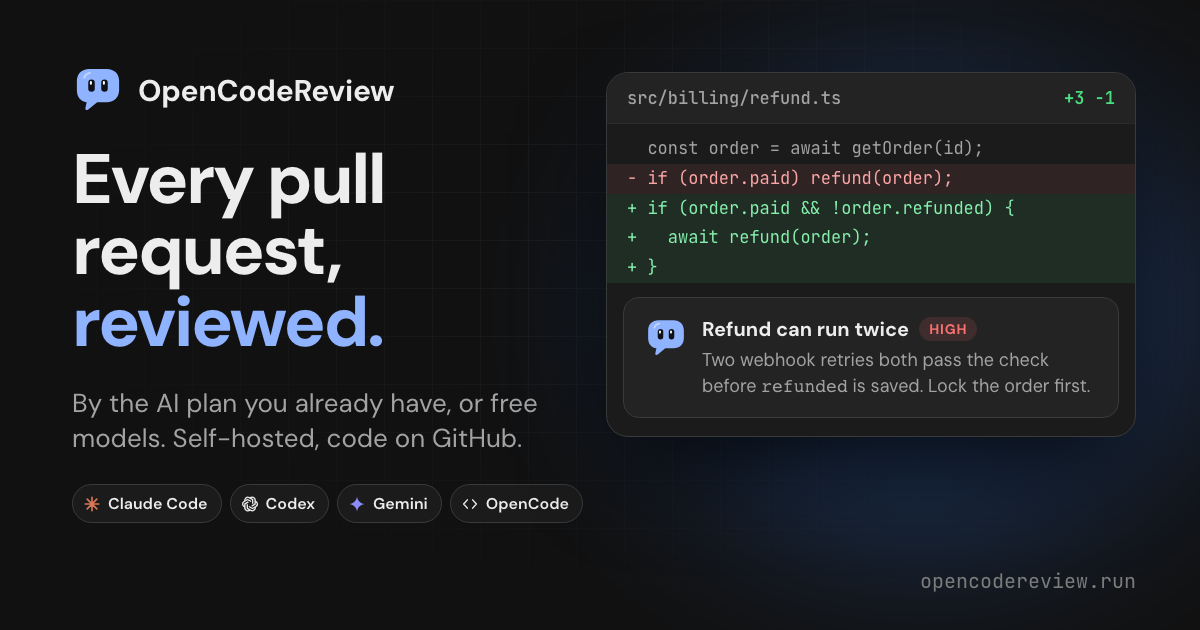
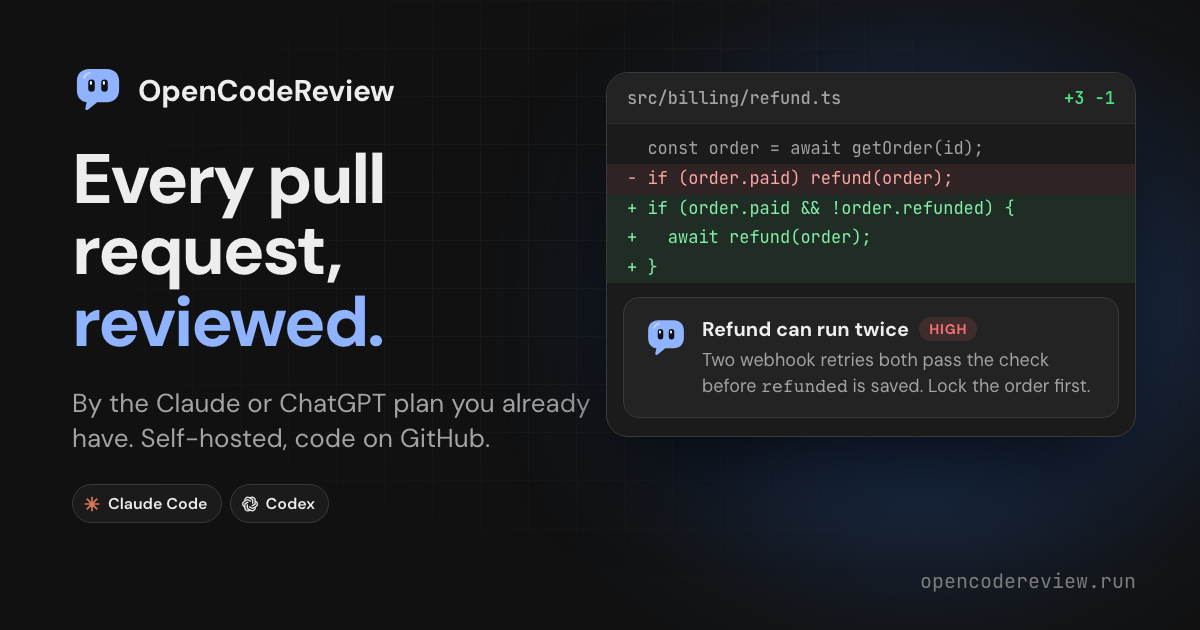
docs: describe Claude and ChatGPT as the only providers
Align the README, docs, landing page, structured data, llms.txt and
share image with the two providers the app runs, and drop the free
models and API key claims.

Changed region(s): [[0.0617, 0.6032, 0.4933, 0.7238], [0.2775, 0.7841, 0.4933, 0.8143]]

diff --git a/site/index.html b/site/index.html
@@ -4,7 +4,7 @@
   <meta charset="utf-8">
   <meta name="viewport" content="width=device-width, initial-scale=1, viewport-fit=cover">
   <title>OpenCodeReview — a code reviewer for people who ship alone</title>
-  <meta name="description" content="Self-hosted AI code review for indie hackers and solo SaaS builders. Every pull request gets reviewed by Claude Code, Codex or Gemini with the account you already have, or by OpenCode for free.">
+  <meta name="description" content="Self-hosted AI code review for indie hackers and solo SaaS builders. Every pull request gets reviewed by Claude Code or Codex with the Claude or ChatGPT account you already have.">
   <link rel="canonical" href="https://opencodereview.run/">
   <meta name="robots" content="index, follow, max-image-preview:large, max-snippet:-1">
   <meta name="theme-color" content="#111111">
@@ -13,16 +13,16 @@
   <meta property="og:locale" content="en_US">
   <meta property="og:url" content="https://opencodereview.run/">
   <meta property="og:title" content="OpenCodeReview — a code reviewer for people who ship alone">
-  <meta property="og:description" content="Every pull request reviewed by the AI account you already have, or by free models. Self-hosted, with the code on GitHub.">
-  <meta property="og:image" content="https://opencodereview.run/og.png?v=2">
+  <meta property="og:description" content="Every pull request reviewed by the Claude or ChatGPT account you already have. Self-hosted, with the code on GitHub.">
+  <meta property="og:image" content="https://opencodereview.run/og.png?v=3">
   <meta property="og:image:type" content="image/png">
   <meta property="og:image:width" content="1200">
   <meta property="og:image:height" content="630">
   <meta property="og:image:alt" content="OpenCodeReview: every pull request, reviewed. A diff with a high-severity review comment from the OpenCodeReview mascot.">
   <meta name="twitter:card" content="summary_large_image">
   <meta name="twitter:title" content="OpenCodeReview — a code reviewer for people who ship alone">
-  <meta name="twitter:description" content="Every pull request reviewed by the AI account you already have, or by free models. Self-hosted, with the code on GitHub.">
-  <meta name="twitter:image" content="https://opencodereview.run/og.png?v=2">
+  <meta name="twitter:description" content="Every pull request reviewed by the Claude or ChatGPT account you already have. Self-hosted, with the code on GitHub.">
+  <meta name="twitter:image" content="https://opencodereview.run/og.png?v=3">
   <meta name="twitter:image:alt" content="OpenCodeReview: every pull request, reviewed. A diff with a high-severity review comment from the OpenCodeReview mascot.">
   <link rel="icon" href="favicon.ico" sizes="32x32">
   <link rel="icon" href="favicon.svg" type="image/svg+xml">
@@ -59,7 +59,7 @@
         "@id": "https://opencodereview.run/#software",
         "name": "OpenCodeReview",
         "url": "https://opencodereview.run/",
-        "description": "Self-hosted, source-available AI code review for GitHub pull requests. Reviews run on the Claude Code, Codex or Gemini CLI with the account you already have, or on OpenCode's free models.",
+        "description": "Self-hosted, source-available AI code review for GitHub pull requests. Reviews run on the Claude Code or Codex CLI with the Claude or ChatGPT account you already have.",
         "applicationCategory": "DeveloperApplication",
         "operatingSystem": "Linux, macOS, Windows (Docker)",
         "image": "https://opencodereview.run/og.png",
@@ -73,8 +73,8 @@
           "priceCurrency": "USD"
         },
         "featureList": [
-          "Reviews every GitHub pull request with Claude Code, Codex, Gemini CLI or OpenCode",
-          "Uses the Claude, ChatGPT or Google account you already have, or free models",
+          "Reviews every GitHub pull request with Claude Code or Codex",
+          "Uses the Claude or ChatGPT account you already have",
           "Fails over between several AI accounts when one hits its usage limit",
           "Indexes each repository for callers, dependencies, tests and convention files",
           "Checks every finding against the changed code before publishing it",
@@ -109,7 +109,7 @@
             "name": "Is OpenCodeReview really free?",
             "acceptedAnswer": {
               "@type": "Answer",
-              "text": "For individuals and companies under 100 people and $1M in yearly revenue, yes, including commercial use. Larger companies need a commercial license. Reviews run on your own Claude, ChatGPT or Gemini account, or on OpenCode's free models, so the only cost is what you already pay your AI provider."
+              "text": "For individuals and companies under 100 people and $1M in yearly revenue, yes, including commercial use. Larger companies need a commercial license. Reviews run on your own Claude or ChatGPT account, so the only cost is what you already pay your AI provider."
             }
           },
           {
@@ -117,7 +117,7 @@
             "name": "Which plans work?",
             "acceptedAnswer": {
               "@type": "Answer",
-              "text": "Claude Pro, Max or Team through Claude Code, ChatGPT plans that include Codex, a Google account through the Gemini CLI, and OpenCode's free models or an OpenCode Go key. Local models are not supported. You can connect several accounts of each kind."
+              "text": "Claude Pro, Max or Team through Claude Code, and ChatGPT plans that include Codex. Local models are not supported. You can connect several accounts of each kind."
             }
           },
           {
@@ -125,7 +125,7 @@
             "name": "What happens when my plan hits its limit?",
             "acceptedAnswer": {
               "@type": "Answer",
-              "text": "The review continues on your next account in order. The limited account rests and is used again after its window resets. Claude and ChatGPT accounts show how much usage they have left; API keys are billed by their provider."
+              "text": "The review continues on your next account in order. The limited account rests and is used again after its window resets. Each account shows how much usage it has left."
             }
           },
           {
@@ -133,7 +133,7 @@
             "name": "Where does my code go?",
             "acceptedAnswer": {
               "@type": "Answer",
-              "text": "It stays on the machine that runs OpenCodeReview. Reviews call your AI provider with your own sign-in or key, the same way its CLI does when you use it yourself."
+              "text": "It stays on the machine that runs OpenCodeReview. Reviews call your AI provider with your own sign-in, the same way its CLI does when you use it yourself."
             }
           },
           {
@@ -157,7 +157,7 @@
             "name": "What do I need to run it?",
             "acceptedAnswer": {
               "@type": "Answer",
-              "text": "Docker, a GitHub account with access to your repositories, and a Claude, ChatGPT or Gemini account. Without one, OpenCode's free models work. The Claude Code, Codex, Gemini and OpenCode CLIs ship inside the container."
+              "text": "Docker, a GitHub account with access to your repositories, and a Claude or ChatGPT account. The Claude Code and Codex CLIs ship inside the container."
             }
           },
           {
@@ -193,8 +193,6 @@
       <rect x="72" y="34" width="22" height="46" rx="11" fill="#0f1115" /><rect x="77" y="40" width="7" height="13" rx="3.5" fill="#fff" />
     </symbol>
     <symbol id="codex" viewBox="0 0 24 24"><g fill="none" stroke="currentColor" stroke-width="1.8" stroke-linejoin="round"><path d="M12 4.2a4 4 0 0 1 6.9 2.6l-.1 5.4-4.6 2.7" /><path d="M12 4.2a4 4 0 0 1 6.9 2.6l-.1 5.4-4.6 2.7" transform="rotate(60 12 12)" /><path d="M12 4.2a4 4 0 0 1 6.9 2.6l-.1 5.4-4.6 2.7" transform="rotate(120 12 12)" /><path d="M12 4.2a4 4 0 0 1 6.9 2.6l-.1 5.4-4.6 2.7" transform="rotate(180 12 12)" /><path d="M12 4.2a4 4 0 0 1 6.9 2.6l-.1 5.4-4.6 2.7" transform="rotate(240 12 12)" /><path d="M12 4.2a4 4 0 0 1 6.9 2.6l-.1 5.4-4.6 2.7" transform="rotate(300 12 12)" /></g></symbol>
-    <symbol id="gemini" viewBox="0 0 24 24"><path fill="currentColor" d="M12 2c.6 5.4 4.6 9.4 10 10-5.4.6-9.4 4.6-10 10-.6-5.4-4.6-9.4-10-10 5.4-.6 9.4-4.6 10-10Z" /></symbol>
-    <symbol id="opencode" viewBox="0 0 24 24"><path d="M8.5 6.5 3.5 12l5 5.5M15.5 6.5l5 5.5-5 5.5" fill="none" stroke="currentColor" stroke-width="1.9" stroke-linecap="round" stroke-linejoin="round" /></symbol>
     <symbol id="claude" viewBox="0 0 24 24"><g stroke="currentColor" stroke-width="2.2" stroke-linecap="round"><path d="M12 3v18M3 12h18M5.6 5.6l12.8 12.8M18.4 5.6 5.6 18.4" /></g></symbol>
     <symbol id="github" viewBox="0 0 24 24"><path fill="currentColor" d="M12 .5a11.5 11.5 0 0 0-3.64 22.41c.58.1.79-.25.79-.56v-2c-3.2.7-3.88-1.37-3.88-1.37-.52-1.33-1.28-1.69-1.28-1.69-1.05-.71.08-.7.08-.7 1.16.08 1.77 1.19 1.77 1.19 1.03 1.77 2.7 1.26 3.36.96.1-.75.4-1.26.73-1.55-2.56-.29-5.25-1.28-5.25-5.69 0-1.26.45-2.29 1.19-3.1-.12-.29-.52-1.46.11-3.05 0 0 .97-.31 3.17 1.18a11 11 0 0 1 5.77 0c2.2-1.49 3.17-1.18 3.17-1.18.63 1.59.23 2.76.11 3.05.74.81 1.19 1.84 1.19 3.1 0 4.42-2.7 5.4-5.27 5.68.41.36.78 1.06.78 2.14v3.17c0 .31.21.67.8.56A11.5 11.5 0 0 0 12 .5Z" /></symbol>
     <symbol id="folder" viewBox="0 0 24 24"><path d="M3 6.5A1.5 1.5 0 0 1 4.5 5h4l2 2h9A1.5 1.5 0 0 1 21 8.5v9a1.5 1.5 0 0 1-1.5 1.5h-15A1.5 1.5 0 0 1 3 17.5v-11Z" fill="none" stroke="currentColor" stroke-width="1.6" stroke-linejoin="round" /></symbol>
@@ -219,7 +217,7 @@
       <div class="wrap">
         <p class="eyebrow stagger-1">For indie hackers and solo SaaS builders</p>
         <h1 class="headline">Nobody reviews your code.<span>Now something does.</span></h1>
-        <p class="lede">Every pull request reviewed by the AI account you already have, or by free models.</p>
+        <p class="lede">Every pull request reviewed by the Claude or ChatGPT account you already have.</p>
         <div class="ctas"><a class="btn btn-light btn-lg" href="https://github.com/BridgLabs/opencodereview">Run it free<svg viewBox="0 0 24 24" fill="none" stroke="currentColor" stroke-width="2" stroke-linecap="round" stroke-linejoin="round"><path d="M5 12h14M13 6l6 6-6 6" /></svg></a><span class="install"><code>git clone https://github.com/BridgLabs/opencodereview &amp;&amp; cd opencodereview &amp;&amp; docker compose up --build</code><button class="copy" type="button" data-copy="git clone https://github.com/BridgLabs/opencodereview &amp;&amp; cd opencodereview &amp;&amp; docker compose up --build" aria-label="Copy install command"><svg viewBox="0 0 24 24" fill="none" stroke="currentColor" stroke-width="2" stroke-linecap="round" stroke-linejoin="round"><rect x="9" y="9" width="12" height="12" rx="2" /><path d="M5 15V5a2 2 0 0 1 2-2h10" /></svg></button></span></div>
         <p class="trigger">5 minutes with Docker · No account, no card · Free for individuals and small companies</p>
       </div>
@@ -242,8 +240,6 @@
       <ul class="works-list">
         <li><svg class="provider-mark" style="color:var(--claude)"><use href="#claude" /></svg><span>Claude Code<small>Claude plan</small></span></li>
         <li><svg class="provider-mark"><use href="#codex" /></svg><span>Codex<small>ChatGPT plan</small></span></li>
-        <li><svg class="provider-mark" style="color:var(--gemini)"><use href="#gemini" /></svg><span>Gemini<small>Google account</small></span></li>
-        <li><svg class="provider-mark"><use href="#opencode" /></svg><span>OpenCode<small>Free or Go</small></span></li>
       </ul>
     </section>
 
@@ -277,7 +273,7 @@
         <h2 class="h2">It's for you if…</h2>
         <ol class="stagger">
           <li><span>You <strong>build a SaaS, an app or a side project alone</strong>, or with one cofounder, and there is no one to review your code.</span></li>
-          <li><span>You <strong>already pay for Claude, ChatGPT or Gemini</strong>, or pay for nothing yet, and don't want a second AI bill just for reviews.</span></li>
+          <li><span>You <strong>already pay for Claude or ChatGPT</strong> and don't want a second AI bill just for reviews.</span></li>
           <li><span>You've <strong>shipped a bug a second pair of eyes would have caught</strong>, and you'd rather hear it from a bot than from a customer.</span></li>
         </ol>
         <div class="ctas left"><a class="btn btn-light btn-lg" href="https://github.com/BridgLabs/opencodereview">Run it free<svg viewBox="0 0 24 24" fill="none" stroke="currentColor" stroke-width="2" stroke-linecap="round" stroke-linejoin="round"><path d="M5 12h14M13 6l6 6-6 6" /></svg></a></div>
@@ -351,9 +347,9 @@
           <p>Sign in with GitHub and pick the repositories. They're cloned and indexed in the background.</p>
         </div>
         <div class="reveal">
-          <div class="how-art"><div class="mini"><div class="label">Your AI plan</div><div class="row on"><svg class="provider-mark" style="color:var(--claude)"><use href="#claude" /></svg>Claude<span class="ok">✓</span></div><div class="row"><svg class="provider-mark"><use href="#codex" /></svg>ChatGPT</div><div class="row"><svg class="provider-mark" style="color:var(--gemini)"><use href="#gemini" /></svg>Gemini</div></div></div>
+          <div class="how-art"><div class="mini"><div class="label">Your AI plan</div><div class="row on"><svg class="provider-mark" style="color:var(--claude)"><use href="#claude" /></svg>Claude<span class="ok">✓</span></div><div class="row"><svg class="provider-mark"><use href="#codex" /></svg>ChatGPT</div></div></div>
           <h3><span>3.</span> Bring your own brain</h3>
-          <p>Sign in to Claude, ChatGPT or Gemini in the browser, or use OpenCode's free models. Every CLI ships inside the container.</p>
+          <p>Sign in to Claude or ChatGPT in the browser. Both CLIs ship inside the container.</p>
         </div>
         <div class="reveal">
           <div class="how-art"><svg class="hop" style="width:84px;height:84px;color:var(--mascot)"><use href="#bubble" /></svg><span class="tag ok" style="position:absolute;top:34px;right:26px">#58 reviewed</span></div>
@@ -386,13 +382,11 @@
       <div class="grid">
         <article class="card reveal">
           <h3>Your AI, your call</h3>
-          <p>Review with Claude Code, Codex, Gemini or OpenCode, whichever you have. Pick which account the next reviews use.</p>
+          <p>Review with Claude Code or Codex, whichever you have. Pick which account the next reviews use.</p>
           <div class="shot">
             <div class="shot-bar"><span class="dots"><i></i><i></i><i></i></span>Reviews run on</div>
             <div class="opt on"><svg class="provider-mark" style="color:var(--claude)"><use href="#claude" /></svg>Claude Max<span class="sub">Anthropic</span><span class="check">✓</span></div>
             <div class="opt"><svg class="provider-mark"><use href="#codex" /></svg>ChatGPT Plus<span class="sub">OpenAI</span></div>
-            <div class="opt"><svg class="provider-mark" style="color:var(--gemini)"><use href="#gemini" /></svg>Gemini<span class="sub">Google</span></div>
-            <div class="opt"><svg class="provider-mark"><use href="#opencode" /></svg>OpenCode Go<span class="sub">OpenCode</span></div>
           </div>
         </article>
         <article class="card reveal">
@@ -442,7 +436,7 @@
           <div class="local">
             <div class="local-head">On this machine<svg viewBox="0 0 24 24" fill="none" stroke="currentColor" stroke-width="1.8"><rect x="5" y="11" width="14" height="9" rx="2" /><path d="M8 11V8a4 4 0 0 1 8 0v3" /></svg></div>
             <div class="local-row"><svg><use href="#folder" /></svg>Repositories and index</div>
-            <div class="local-row"><svg><use href="#folder" /></svg>AI sign-ins and API keys</div>
+            <div class="local-row"><svg><use href="#folder" /></svg>AI sign-ins</div>
             <div class="local-row"><svg><use href="#folder" /></svg>Review history</div>
           </div>
         </article>
@@ -486,7 +480,7 @@
           <tbody>
             <tr><th scope="row">Price</th><td class="us"><span class="cell"><span class="mark yes" aria-label="Yes">✓</span>Free for individuals and small companies, on your AI plan</span></td><td><span class="cell"><span class="mark no" aria-label="No">✕</span>Per developer, monthly</span></td><td><span class="cell"><span class="mark no" aria-label="No">✕</span>Per developer, monthly</span></td></tr>
             <tr><th scope="row">Where your code runs</th><td class="us"><span class="cell"><span class="mark yes" aria-label="Yes">✓</span>Your machine; only your AI provider sees the diff</span></td><td><span class="cell"><span class="mark no" aria-label="No">✕</span>Their cloud</span></td><td><span class="cell"><span class="mark part" aria-label="Partly">~</span>Their cloud, or self-hosted on enterprise</span></td></tr>
-            <tr><th scope="row">Models</th><td class="us"><span class="cell"><span class="mark yes" aria-label="Yes">✓</span>Claude Code, Codex, Gemini or OpenCode</span></td><td><span class="cell"><span class="mark part" aria-label="Partly">~</span>Vendor's choice</span></td><td><span class="cell"><span class="mark part" aria-label="Partly">~</span>Vendor's choice</span></td></tr>
+            <tr><th scope="row">Models</th><td class="us"><span class="cell"><span class="mark yes" aria-label="Yes">✓</span>Claude Code or Codex</span></td><td><span class="cell"><span class="mark part" aria-label="Partly">~</span>Vendor's choice</span></td><td><span class="cell"><span class="mark part" aria-label="Partly">~</span>Vendor's choice</span></td></tr>
             <tr><th scope="row">Usage limits</th><td class="us"><span class="cell"><span class="mark yes" aria-label="Yes">✓</span>Fails over across your accounts</span></td><td><span class="cell"><span class="mark part" aria-label="Partly">~</span>Your plan's limits</span></td><td><span class="cell"><span class="mark part" aria-label="Partly">~</span>Your plan's limits</span></td></tr>
             <tr><th scope="row">Whole-repo context</th><td class="us"><span class="cell"><span class="mark yes" aria-label="Yes">✓</span>Local index</span></td><td><span class="cell"><span class="mark yes" aria-label="Yes">✓</span>Yes</span></td><td><span class="cell"><span class="mark yes" aria-label="Yes">✓</span>Yes</span></td></tr>
             <tr><th scope="row">Source code available</th><td class="us"><span class="cell"><span class="mark yes" aria-label="Yes">✓</span>Yes</span></td><td><span class="cell"><span class="mark no" aria-label="No">✕</span>No</span></td><td><span class="cell"><span class="mark no" aria-label="No">✕</span>No</span></td></tr>
@@ -535,13 +529,13 @@
         <div>
           <details><summary>I work alone. Isn't code review for teams?</summary><p>That is exactly why you need it. On a team, someone else reads your diff before it ships. Alone, nobody does. OpenCodeReview is that someone, for every pull request, in a few minutes.</p></details>
           <details><summary>I push straight to main. Does it still work?</summary><p>It reviews pull requests. Open a branch and a pull request for each change, even if you merge it yourself ten minutes later. The review lands before you merge.</p></details>
-          <details><summary>Is OpenCodeReview really free?</summary><p>For individuals and companies under 100 people and $1M in yearly revenue, yes, including commercial use. Larger companies need a commercial license. Reviews run on your own Claude, ChatGPT or Gemini account, or on OpenCode's free models, so the only cost is what you already pay your AI provider.</p></details>
-          <details><summary>Which plans work?</summary><p>Claude Pro, Max or Team through Claude Code, ChatGPT plans that include Codex, a Google account through the Gemini CLI, and OpenCode's free models or an OpenCode Go key. Local models are not supported. You can connect several accounts of each kind.</p></details>
-          <details><summary>What happens when my plan hits its limit?</summary><p>The review continues on your next account in order. The limited account rests and is used again after its window resets. Claude and ChatGPT accounts show how much usage they have left; API keys are billed by their provider.</p></details>
-          <details><summary>Where does my code go?</summary><p>It stays on the machine that runs OpenCodeReview. Reviews call your AI provider with your own sign-in or key, the same way its CLI does when you use it yourself.</p></details>
+          <details><summary>Is OpenCodeReview really free?</summary><p>For individuals and companies under 100 people and $1M in yearly revenue, yes, including commercial use. Larger companies need a commercial license. Reviews run on your own Claude or ChatGPT account, so the only cost is what you already pay your AI provider.</p></details>
+          <details><summary>Which plans work?</summary><p>Claude Pro, Max or Team through Claude Code, and ChatGPT plans that include Codex. Local models are not supported. You can connect several accounts of each kind.</p></details>
+          <details><summary>What happens when my plan hits its limit?</summary><p>The review continues on your next account in order. The limited account rests and is used again after its window resets. Each account shows how much usage it has left.</p></details>
+          <details><summary>Where does my code go?</summary><p>It stays on the machine that runs OpenCodeReview. Reviews call your AI provider with your own sign-in, the same way its CLI does when you use it yourself.</p></details>
           <details><summary>How is it different from CodeRabbit or Greptile?</summary><p>They are hosted services billed per developer. OpenCodeReview runs on your own machine, its code is on GitHub, and it reviews with the AI plan you already pay for.</p></details>
           <details><summary>Does my laptop need to stay on?</summary><p>Reviews run while OpenCodeReview is running. For reviews around the clock, run it on any always-on machine with Docker, such as a small VPS or a home server.</p></details>
-          <details><summary>What do I need to run it?</summary><p>Docker, a GitHub account with access to your repositories, and a Claude, ChatGPT or Gemini account. Without one, OpenCode's free models work. The Claude Code, Codex, Gemini and OpenCode CLIs ship inside the container.</p></details>
+          <details><summary>What do I need to run it?</summary><p>Docker, a GitHub account with access to your repositories, and a Claude or ChatGPT account. The Claude Code and Codex CLIs ship inside the container.</p></details>
           <details><summary>Does it work with GitHub Enterprise?</summary><p>Yes. Set <code>OCR_GH_HOST</code> to your GitHub host before starting it.</p></details>
         </div>
       </div>

diff --git a/scripts/og/og.html b/scripts/og/og.html
@@ -30,12 +30,10 @@
   <div class="copy">
     <div class="brand"><svg><use href="#bubble" /></svg>OpenCodeReview</div>
     <h1 class="title">Every pull request,<span>reviewed.</span></h1>
-    <p class="sub">By the AI plan you already have, or free models. Self-hosted, code on GitHub.</p>
+    <p class="sub">By the Claude or ChatGPT plan you already have. Self-hosted, code on GitHub.</p>
     <div class="chips">
       <span class="chip"><svg style="color:var(--claude)"><use href="#claude" /></svg>Claude Code</span>
       <span class="chip"><svg><use href="#codex" /></svg>Codex</span>
-      <span class="chip"><svg style="color:var(--gemini)"><use href="#gemini" /></svg>Gemini</span>
-      <span class="chip"><svg><use href="#opencode" /></svg>OpenCode</span>
     </div>
   </div>
   <div class="card">

diff --git a/site/styles.css b/site/styles.css
@@ -15,7 +15,6 @@
   --warning: #f5a524;
   --danger: #f87171;
   --claude: #d97757;
-  --gemini: #8b8cf8;
   --radius: 28px;
   color-scheme: dark;
 }

diff --git a/scripts/og/og.css b/scripts/og/og.css
@@ -25,7 +25,6 @@
   --warning: #f5a524;
   --danger: #f87171;
   --claude: #d97757;
-  --gemini: #8b8cf8;
 }
 * {
   box-sizing: border-box;

diff --git a/docs/architecture.md b/docs/architecture.md
@@ -13,7 +13,7 @@ flowchart TB
   API --> GH[gh CLI -> GitHub]
   API -->|private IPC| Runners[review-runner replicas]
   Runners --> Egress[review-egress]
-  Egress --> Provider[Claude, ChatGPT, Gemini and OpenCode hosts]
+  Egress --> Provider[Claude and ChatGPT hosts]
   API -->|sign-in projection| Auth[(review-claude-auth volume)]
   Auth -. read-only .-> Runners
 ```
@@ -22,7 +22,7 @@ flowchart TB
 | --- | ---: | --- |
 | `web` | `1421` | nginx serving the built React app and proxying `/api` to `server`. |
 | `server` | `127.0.0.1:8787` | Rust API (`ocr-server`): GitHub integration, indexing, review orchestration, publication, sign-in flows and background workers. Also publishes `127.0.0.1:1455` for the ChatGPT browser sign-in callback, forwarded only while a sign-in runs. |
-| `review-runner` | none | `ocr-sandbox runner`: executes Claude Code, Codex, the Gemini CLI or OpenCode on a frozen review snapshot, one stage per container at a time. `OCR_REVIEW_RUNNERS` replicas (20 by default) share the `review-ipc` volume, each listening on `/ipc/<hostname>.sock`; the server lists the sockets to find them and removes those whose runner is gone. Settings → PR selection → Reviews at a time (20 by default) limits how many reviews run at once. |
+| `review-runner` | none | `ocr-sandbox runner`: executes Claude Code or Codex on a frozen review snapshot, one stage per container at a time. `OCR_REVIEW_RUNNERS` replicas (20 by default) share the `review-ipc` volume, each listening on `/ipc/<hostname>.sock`; the server lists the sockets to find them and removes those whose runner is gone. Settings → PR selection → Reviews at a time (20 by default) limits how many reviews run at once. |
 | `review-egress` | none | `ocr-sandbox egress`: a CONNECT proxy that admits only the AI provider hosts. Runner networks are internal and reach the internet only through it. |
 
 Volumes: `ocr-data` (database, repository cache, index, review archives, settings and sign-ins), `review-claude-auth` (read-only sign-in projection for runners) and one IPC volume per runner. The runtime uses built images and named volumes only: no source bind mounts, no host credential folders, no Docker socket.
@@ -33,15 +33,13 @@ Volumes: `ocr-data` (database, repository cache, index, review archives, setting
 - The containers are read-only, drop all capabilities except the few the supervisor needs, use `no-new-privileges`, and limit CPU, memory and process count. The AI process runs as an unprivileged UID separate from its supervisor.
 - Claude Code runs as `claude --print` with a fixed model and effort (`claude-opus-5-5`, medium), JSON streaming output, no MCP servers, no session persistence, no slash commands and an explicit tool list (`Read`, `Grep`, `Glob`, `Bash`, `Write`). `Agent`, `Task`, `WebFetch`, `WebSearch` and `mcp__*` are denied, and a `PreToolUse` hook (`ocr-sandbox tool-guard`) checks every tool call. Shell access is limited to bounded reads, searches and listings inside the snapshot.
 - Codex runs as `codex exec` with medium reasoning effort, the CLI's default model, ephemeral sessions and user config, extensions and web search disabled. Codex's own sandbox cannot start inside the hardened runner, so the container is the sandbox.
-- Gemini runs the Gemini CLI headless (`--output-format stream-json`, prompt on stdin) with its default model, a private home with usage statistics, auto-update and checkpointing off, and a policy that denies web search, web fetch, subagents and skills. Like Codex, the container is the sandbox.
-- OpenCode runs `opencode run --pure --format json` with the prompt on stdin, the account's OpenCode Go key, if any, in `OPENCODE_API_KEY`, and the plan's model (`opencode-go/glm-5.3` with a key, `opencode/big-pickle` for the free models) unless the account names another. Model catalogue downloads, auto-update, default plugins, LSP downloads, sharing, project configuration and Claude Code files are off, and the web, subagent, todo, skill and edit tools are disabled. Local models are not offered: the egress proxy refuses private networks.
 - The sign-in reaches the process only through its environment or a private per-stage home directory. Output that contains the account's tokens is rejected, and transcripts are kept outside paths the model can read.
 - The backend and runner images share an executor fingerprint (`ocr-sandbox engine-version`). A mismatched runner fails before any AI call, and there is no fallback that runs the AI inside `server`.
 - Every CLI version is pinned in [`docker/Dockerfile`](../docker/Dockerfile) with per-architecture SHA-256 checksums and auto-update disabled.
 
 ## Accounts and failover
 
-Settings → Accounts holds Claude, ChatGPT, Gemini and OpenCode accounts in one priority order. Each review stage uses the first account that is enabled, signed in and not resting. When a stage hits a usage limit, that account rests until the reset time reported by the provider (or one hour when none is given) and the same stage runs again on the next account, across providers. A rejected sign-in marks the account as needing attention. Settings shows each Claude and ChatGPT account's remaining plan usage, refreshed every five minutes; Gemini does not expose its quota outside a session, so its accounts rest when a review reports the daily quota is used up. OpenCode does not report usage, so its accounts show none.
+Settings → Accounts holds Claude and ChatGPT accounts in one priority order. Each review stage uses the first account that is enabled, signed in and not resting. When a stage hits a usage limit, that account rests until the reset time reported by the provider (or one hour when none is given) and the same stage runs again on the next account, across providers. A rejected sign-in marks the account as needing attention. Settings shows each account's remaining plan usage and the top bar shows it for the account the next review uses, refreshed every five minutes.
 
 ## Backend
 
@@ -51,7 +49,7 @@ Rust crate `opencodereview-server` in [`backend/`](../backend/Cargo.toml) with t
 | --- | --- |
 | HTTP API and jobs | `server/` |
 | Reviews | `review/` (`mod.rs`, `frozen.rs`, `execution.rs`, `scope.rs`, `coverage.rs`, `chunks.rs`, `integration/`, `evidence.rs`, `validation.rs`, `findings.rs`), `review_archive/` |
-| AI CLIs | `providers/` (`claude.rs`, `codex.rs`, `gemini.rs`, `opencode.rs`), `accounts/` (`mod.rs`, `usage.rs`) |
+| AI CLIs | `providers/` (`claude.rs`, `codex.rs`), `accounts/` (`mod.rs`, `usage.rs`) |
 | Sandbox | `sandbox/` (`mod.rs`, `runner.rs`, `egress.rs`, `read_commands.rs`), `accounts/sandbox_sync.rs` |
 | Indexing | `indexer/` |
 | GitHub | `github/` (all calls go through the authenticated `gh` CLI) |
@@ -94,7 +92,5 @@ State-changing endpoints also require the request origin to match `OCR_WEB_APP_U
 | `/data/xdg-config/gh` | GitHub CLI sign-in created by the onboarding device flow. |
 | `/data/accounts/<id>/claude/oauth-token` | Claude Code token from `claude setup-token` (mode `0600`). |
 | `/data/accounts/<id>/codex/auth.json` | ChatGPT sign-in from `codex login` (mode `0600`). Refreshed sign-ins returned by a review replace it. |
-| `/data/accounts/<id>/gemini/oauth_creds.json` | Google sign-in from the Gemini CLI (mode `0600`). Refreshed sign-ins returned by a review replace it. |
-| `/data/accounts/<id>/opencode/auth.json` | OpenCode plan (Go or free), Go key and optional model (mode `0600`). |
 
 OpenCodeReview never manages its own GitHub tokens; `GH_TOKEN` is only a development fallback.

diff --git a/README.md b/README.md
@@ -6,15 +6,15 @@
 
 [![License](https://img.shields.io/badge/license-PolyForm_Small_Business_1.0.0-blue.svg)](LICENSE)
 
-AI code review for GitHub pull requests that runs on your own machine, using the Claude, ChatGPT or Gemini account you already have, or OpenCode's free models.
+AI code review for GitHub pull requests that runs on your own machine, using the Claude or ChatGPT account you already have.
 
-OpenCodeReview watches the repositories you pick, reviews each pull request with [Claude Code](https://docs.anthropic.com/en/docs/claude-code), [Codex](https://github.com/openai/codex), [Gemini CLI](https://github.com/google-gemini/gemini-cli) or [OpenCode](https://github.com/anomalyco/opencode) inside isolated Docker containers, checks every finding against the code, and posts the result on the pull request.
+OpenCodeReview watches the repositories you pick, reviews each pull request with [Claude Code](https://docs.anthropic.com/en/docs/claude-code) or [Codex](https://github.com/openai/codex) inside isolated Docker containers, checks every finding against the code, and posts the result on the pull request.
 
 ![The OpenCodeReview review queue](site/app-reviews.png)
 
 ## Features
 
-- **Your own AI.** Reviews run on the Claude Code CLI (Claude Opus 5.5, medium effort), the Codex CLI or the Gemini CLI, signed in with your Claude, ChatGPT or Google account, or on OpenCode with its free models or your OpenCode Go key. There is no OpenCodeReview account.
+- **Your own AI.** Reviews run on the Claude Code CLI (Claude Opus 5.5, medium effort) or the Codex CLI, signed in with your Claude or ChatGPT account. There is no OpenCodeReview account.
 - **Several accounts with failover.** Connect more than one account, of any provider, and order them. When an account hits its usage limit, the review continues on the next one, and the limited account comes back after its window resets. Settings shows how much of each Claude and ChatGPT plan is left.
 - **Codebase indexing.** Each selected repository is indexed locally: file metadata, a package and import graph, and lightweight symbols. Reviews get the callers, dependencies and tests of the changed code, plus your convention files (`AGENTS.md`, `CLAUDE.md`, `CONTRIBUTING.md`, `REVIEW.md` and others).
 - **Usage.** See the tokens reviews used by day, pull request, repository, model and account, with findings, time and cache reuse. A pull request opens into each of its runs.
@@ -33,7 +33,7 @@ git clone https://github.com/BridgLabs/opencodereview && cd opencodereview && do
 Open [http://localhost:1421](http://localhost:1421) and follow onboarding:
 
 1. **GitHub**: sign in with the GitHub device flow.
-2. **Your plan**: connect at least one account. Claude uses `claude setup-token` (you paste back the code it shows); ChatGPT uses the `codex login` browser flow or a device code; Gemini uses the Gemini CLI's Google sign-in (you paste back the code it shows); OpenCode works with no account on its free models, or takes an OpenCode Go key, which OpenCode checks before it is saved.
+2. **Your plan**: connect at least one account. Claude uses `claude setup-token` (you paste back the code it shows); ChatGPT uses the `codex login` browser flow or a device code.
 3. **Repositories**: choose the repositories to monitor. They are cloned and indexed in the background.
 4. **First review**: pick an open pull request. After that, new pull requests in monitored repositories are reviewed automatically.
 
@@ -51,9 +51,9 @@ Set `OCR_VERSION` (for example `OCR_VERSION=0.2.0`) to stay on one release; the 
 - A GitHub account with access to the repositories you want reviewed.
 - At least one of:
   - a Claude subscription that works with Claude Code (Pro, Max, Team or Enterprise);
-  - a ChatGPT plan that includes Codex;
-  - a Google account that can use the Gemini CLI, or
-  - nothing: OpenCode's free models need no account, and an OpenCode Go key unlocks its paid models. Local models through Ollama or similar are not supported: the review egress proxy refuses private networks by design.
+  - a ChatGPT plan that includes Codex.
+
+Local models through Ollama or similar are not supported: the review egress proxy refuses private networks by design.
 
 You do not need Node, pnpm or Rust on the host to run OpenCodeReview. Every AI CLI ships in the image at a pinned, checksum-verified version.
 
@@ -89,8 +89,8 @@ browser ──> web (nginx, :1421) ──/api──> server (Rust API, 127.0.0.1
 | --- | --- |
 | `web` | Serves the React UI and proxies `/api` to `server`. |
 | `server` | Rust HTTP API: GitHub polling through the `gh` CLI, indexing, review orchestration, publication and background jobs. |
-| `review-runner` | Runs Claude Code, Codex, the Gemini CLI or OpenCode on a frozen snapshot of the pull request, one review stage per container at a time. 20 replicas by default (`OCR_REVIEW_RUNNERS`); idle ones use almost no memory. Each receives only a private socket and a read-only copy of the sign-in. |
-| `review-egress` | Outbound proxy that allows only `api.anthropic.com`, `chatgpt.com`, `api.openai.com`, `auth.openai.com`, `oauth2.googleapis.com`, `cloudcode-pa.googleapis.com` and `opencode.ai`, on port 443 and public addresses only. |
+| `review-runner` | Runs Claude Code or Codex on a frozen snapshot of the pull request, one review stage per container at a time. 20 replicas by default (`OCR_REVIEW_RUNNERS`); idle ones use almost no memory. Each receives only a private socket and a read-only copy of the sign-in. |
+| `review-egress` | Outbound proxy that allows only `api.anthropic.com`, `chatgpt.com`, `api.openai.com` and `auth.openai.com`, on port 443 and public addresses only. |
 
 A review fetches the live base and head of the pull request, selects the scope (full, incremental, base sync or stacked), builds context from the index, freezes the evidence into an archive, runs the AI in a runner (split into chunks for large PRs), validates the report and publishes it. On GitHub, OpenCodeReview posts a collapsed summary comment that it updates on each push, a result comment that replaces the previous one, and the validated findings as a single non-blocking review with inline comments. It never approves a pull request on its own.
 
@@ -130,4 +130,4 @@ Licensed under the [PolyForm Small Business License 1.0.0](LICENSE). Individuals
 
 See [NOTICE](NOTICE) for attribution and third-party notices.
 
-OpenCodeReview is an independent source-available project and is not affiliated with, endorsed by, or sponsored by Anthropic, OpenAI, Google or OpenCode. Their product names are used only to describe compatibility.
+OpenCodeReview is an independent source-available project and is not affiliated with, endorsed by, or sponsored by Anthropic or OpenAI. Their product names are used only to describe compatibility.

diff --git a/AGENTS.md b/AGENTS.md
@@ -6,7 +6,7 @@ Guide for contributors and AI coding agents working on OpenCodeReview. Read it b
 
 ```text
 src/, src/platform/                      React frontend: onboarding, reviews, indexing, skills, settings
-backend/src/providers/                   AI CLIs: claude.rs (fixed model and effort, tool policy), codex.rs, gemini.rs, opencode.rs
+backend/src/providers/                   AI CLIs: claude.rs (fixed model and effort, tool policy), codex.rs
 backend/src/accounts/                    AI account credentials, plan usage, sign-in projection into runners
 backend/src/sandbox/                     ocr-sandbox: runner, egress proxy, read commands, tool guard
 backend/src/review/                      Review orchestration, scope, coverage, evidence, findings, validation
@@ -39,7 +39,7 @@ docker-compose.yml, docker/              Docker runtime, Dockerfiles, smoke and 
 ## Product rules
 
 - OpenCodeReview is reviews, indexing and skills. Do not add unrelated product areas without a discussion in an issue first.
-- Claude reviews run `claude --print` with one fixed model and effort (`MODEL` and `EFFORT` in `backend/src/providers/claude.rs`). Codex reviews run `codex exec` with medium reasoning effort and the CLI's default model. Gemini reviews run the Gemini CLI headless with its default model and web tools denied. OpenCode reviews run `opencode run` on a free model, or on an OpenCode Go model with the account's Go key. Do not add model pickers or other providers without a product discussion.
+- Claude reviews run `claude --print` with one fixed model and effort (`MODEL` and `EFFORT` in `backend/src/providers/claude.rs`). Codex reviews run `codex exec` with medium reasoning effort and the CLI's default model. Do not add model pickers or other providers without a product discussion.
 - All AI CLIs are baked into the image at pinned, checksum-verified versions. Do not add runtime CLI installs or auto-updates.
 - Accounts are tried in priority order across providers (`pick_ai_account`); a usage limit rests the account and the same stage reruns on the next one.
 - Usage is reported in tokens only. Do not add currency or cost estimates.

diff --git a/docs/development.md b/docs/development.md
@@ -111,9 +111,9 @@ The schema starts from `backend/src/db/schema.sql` and the migrations listed in 
 
 ## Upgrading the AI CLIs
 
-The Claude Code and Codex CLI and Node.js versions are pinned in `docker/Dockerfile` with SHA-256 checksums for `amd64` and `arm64`; the Gemini CLI is pinned to one npm package with its SHA-256; the OpenCode CLI is a pinned release archive with per-architecture SHA-256 checksums. Update a version and its checksums together, rebuild, and run `docker/runner-smoke.py` before using the new image.
+The Claude Code and Codex CLI versions are pinned in `docker/Dockerfile` with SHA-256 checksums for `amd64` and `arm64`. Update a version and its checksums together, rebuild, and run `docker/runner-smoke.py` before using the new image.
 
-The [Provider CLI canary](../.github/workflows/provider-cli-canary.yml) builds the image with the newest release of each CLI every six hours. It checks that each CLI still accepts the flags its provider passes, runs the runner smoke, and sends one prompt to OpenCode's free model. Its run summary lists the pinned and newest versions, and `python3 -B docker/provider-cli-canary.py resolve` prints the newest versions with their `amd64` checksums. It opens an issue when it fails twice in a row.
+The [Provider CLI canary](../.github/workflows/provider-cli-canary.yml) builds the image with the newest release of each CLI every six hours. It checks that each CLI still accepts the flags its provider passes and runs the runner smoke. Its run summary lists the pinned and newest versions, and `python3 -B docker/provider-cli-canary.py resolve` prints the newest versions with their `amd64` checksums. It opens an issue when it fails twice in a row.
 
 ## Releases
 

diff --git a/docs/configuration.md b/docs/configuration.md
@@ -6,7 +6,7 @@ Most configuration lives in the app under **Settings**. Environment variables co
 
 | Section | What it controls |
 | --- | --- |
-| Accounts | Claude, ChatGPT, Gemini and OpenCode accounts, their priority order, remaining plan usage (Claude and ChatGPT) and which account the next review uses. |
+| Accounts | Claude and ChatGPT accounts, their priority order, remaining plan usage and which account the next review uses. |
 | Repository access | GitHub organizations and repositories to monitor. Only selected repositories are indexed, polled and reviewed. An organization can be monitored as a whole, including repositories created later. |
 | PR selection | Review scope (`Assigned` to you or your teams, or `All PRs`), the maximum number of files per PR (default 100; larger PRs are skipped before any AI call), poll interval and title keywords that skip a PR (for example `renovate`, `chore(deps)`). |
 | Integrations | GitHub and AI CLI status and versions, re-check and sign out. |

diff --git a/changelog.d/fix-other-cli-final-response.md b/changelog.d/fix-other-cli-final-response.md
@@ -1,5 +1,5 @@
 ### Fixed
 
-- Accept reviews from ChatGPT, Gemini and OpenCode when the model sends the report as a JSON string
+- Accept reviews from ChatGPT when the model sends the report as a JSON string
   or the finding decisions as a bare or empty list. Before, those reviews failed with "Review final
   response requires JSON objects for report and findingDecisions".
